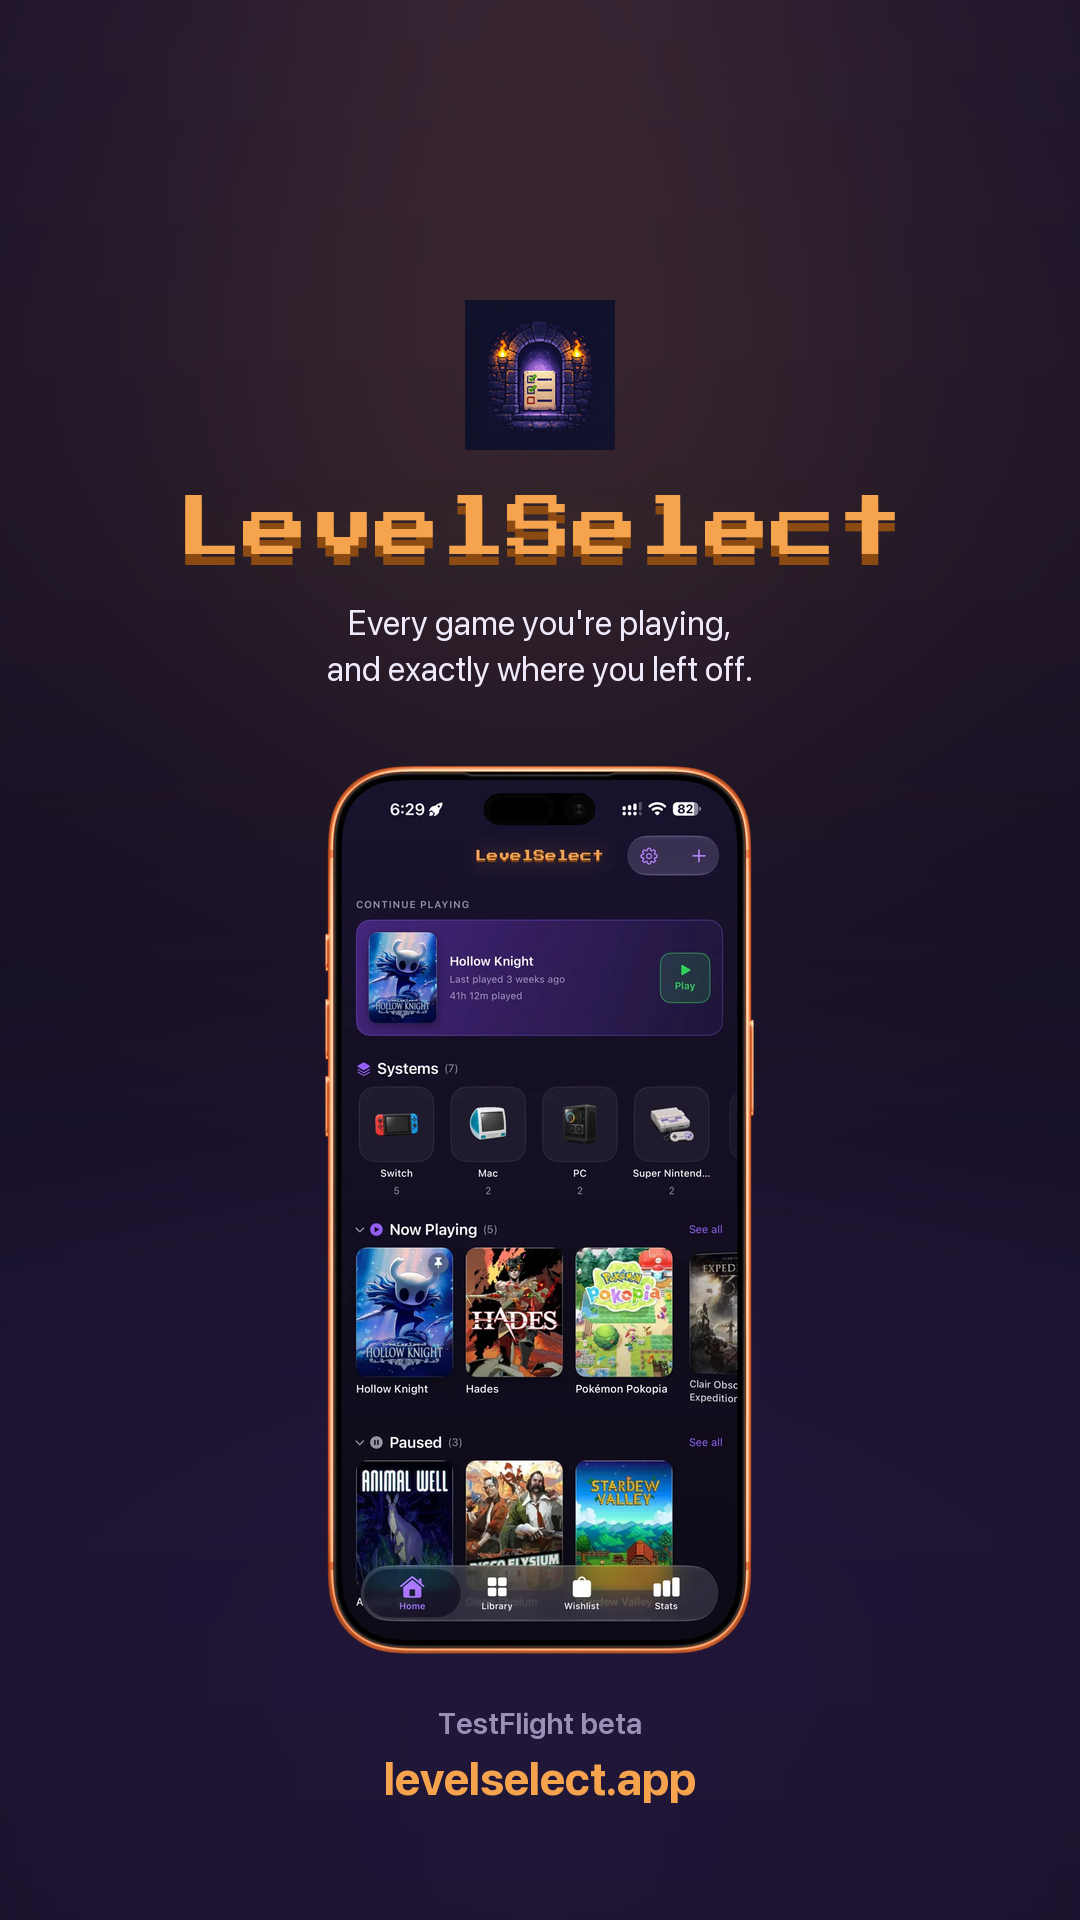
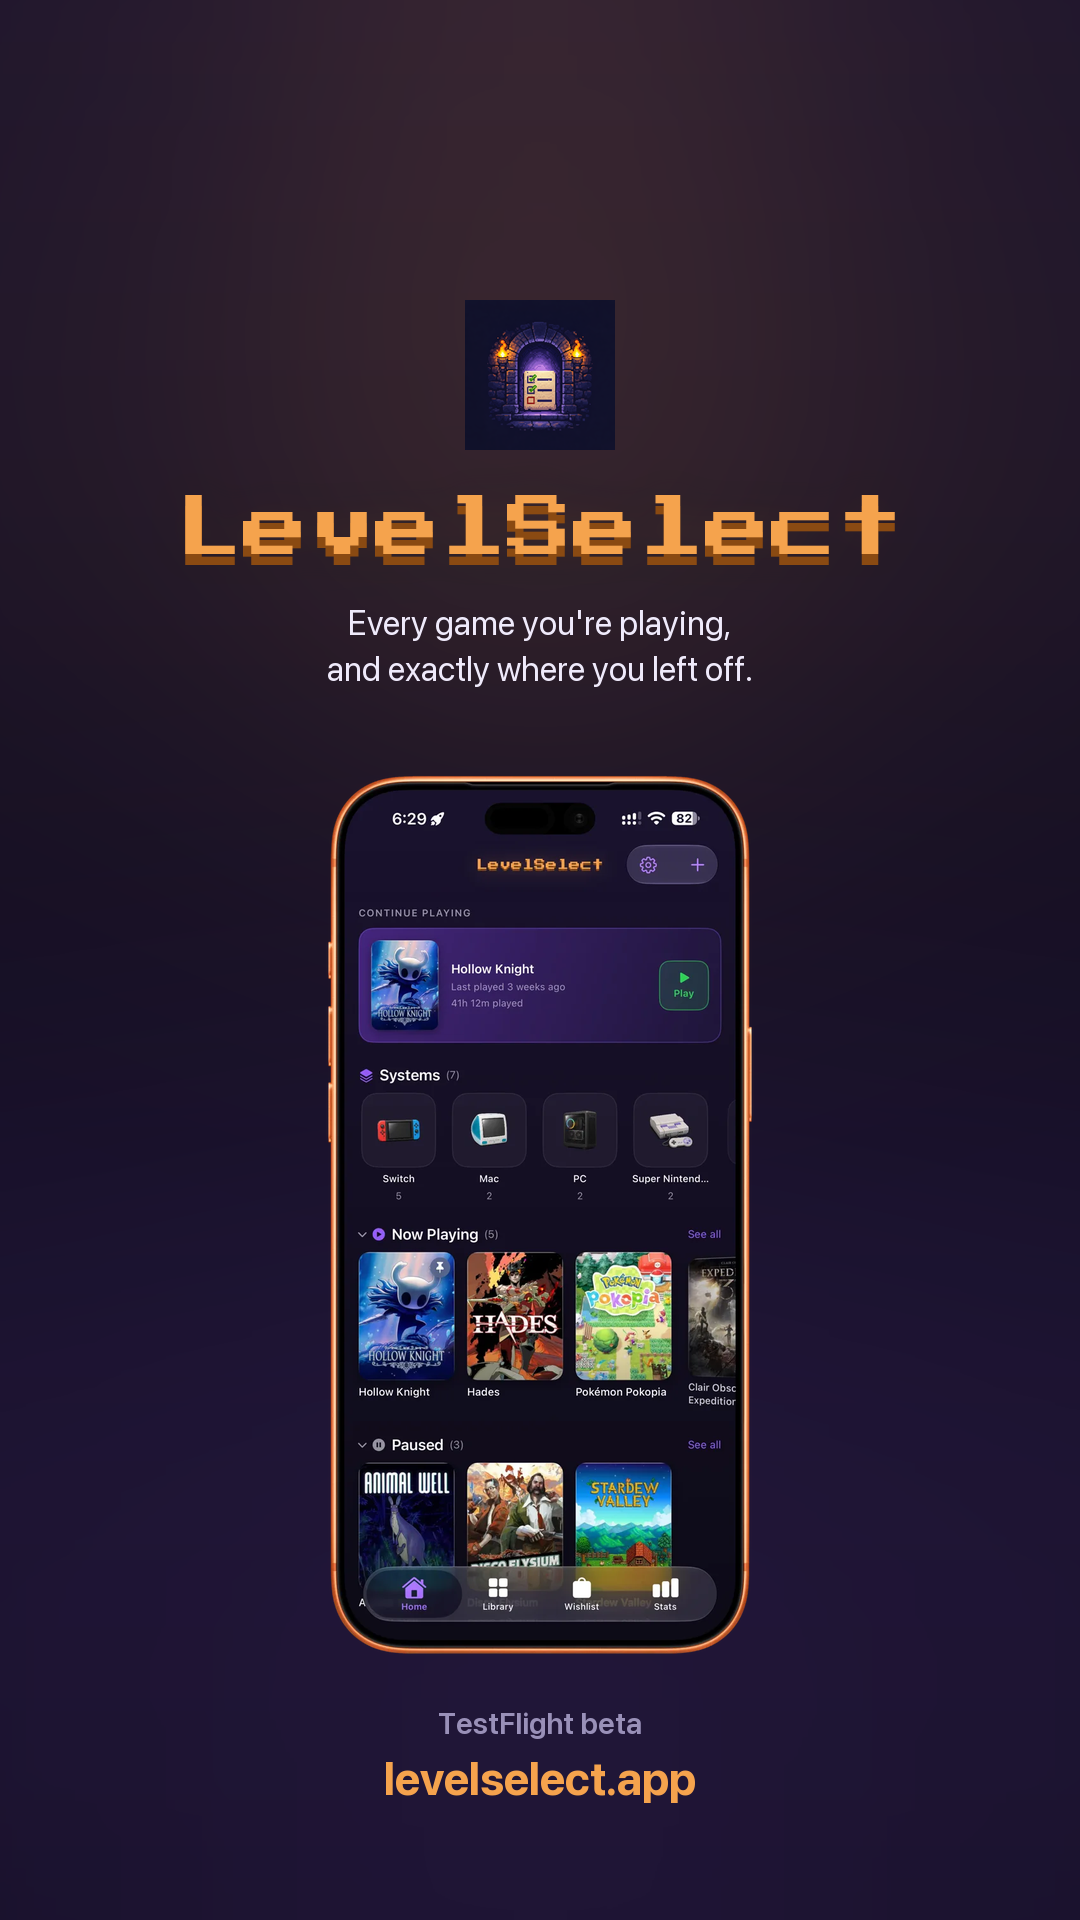
Two heroes, and nothing sitting on the phone
The square had the domain printed across the phone screen — the art was
a fixed height that ran past where the text was drawn, so they simply
overlapped. Every format now budgets its art to the space actually left
between the tagline and the footer, so text and devices can't collide
whatever the shot's proportions.

Each format also comes in one-up and two-up: the phone alone, or the
phone in front of the iPad the way the homepage hero pairs them, which
is the version that shows the tracker beside a game. The link preview
points at the two-up; both are built, so switching is one line.

Changed region(s): [[0.275, 0.375, 0.7028, 0.875]]

diff --git a/site/scripts/make-social-images.py b/site/scripts/make-social-images.py
@@ -60,6 +60,28 @@ def shot(name, height):
     return im.resize((w, height), Image.LANCZOS)
 
 
+def devices(pair, height):
+    """The hero art: one phone, or the site's phone-in-front-of-iPad pairing.
+
+    `height` is the tallest device, so callers can budget vertical space and
+    keep text clear of the art — the square's URL used to land on top of the
+    phone because nothing was measuring this.
+    """
+    phone = shot("iphone-01-home-shelf.webp", height)
+    if not pair:
+        return phone
+
+    pad = shot("ipad-01-split-tracker.webp", round(height * 0.74))
+    phone = shot("iphone-01-home-shelf.webp", height)
+    overlap = round(phone.width * 0.46)
+    canvas = Image.new("RGBA", (phone.width + pad.width - overlap, height), (0, 0, 0, 0))
+    # iPad behind and slightly high, phone in front-left — the arrangement the
+    # homepage hero uses, so the two read as one product on several screens.
+    canvas.alpha_composite(pad, (phone.width - overlap, round(height * 0.10)))
+    canvas.alpha_composite(phone, (0, 0))
+    return canvas
+
+
 def wordmark(img, xy, size, anchor="lt"):
     """The site's wordmark, both shadows included.
 
@@ -101,12 +123,11 @@ def sans(size, weight=400):
 
 
 # ─────────────────────────── 1200x630 — link previews ───────────────────────
-def open_graph():
+def open_graph(pair):
     W, H = 1200, 630
     img = gradient((W, H))
     img = glow(img, (250, 250), 340, TORCH, 0.20)
     img = glow(img, (980, 430), 380, ACCENT, 0.16)
-    d = ImageDraw.Draw(img)
 
     icon = Image.open(PUB / "assets" / "icon.png").convert("RGBA").resize((128, 128), Image.LANCZOS)
     img.paste(icon, (74, 92), icon)
@@ -120,19 +141,21 @@ def open_graph():
     d.text((74, 508), "iPhone · iPad · Mac · Watch", font=sans(22, 400), fill=MUTED)
     d.text((74, 560), "levelselect.app", font=sans(28, 600), fill=TORCH)
 
-    # One device, bled off the right edge so the crop can't behead it.
-    s = shot("iphone-01-home-shelf.webp", 700)
-    img.alpha_composite(s, (835, 92))
-    return img, "og.png"
+    # Bled off the right edge so a crop can't behead it. The pair starts
+    # further right and stands shorter: the wordmark runs to ~x756 at 62px
+    # (Press Start 2P is one em per character), and the phone was landing on
+    # its final letter.
+    art = devices(pair, 700 if not pair else 470)
+    img.alpha_composite(art, (835, 92) if not pair else (788, 84))
+    return img, f"og{'-2up' if pair else ''}.png"
 
 
 # ─────────────────────────── 1080x1920 — Instagram story ────────────────────
-def story():
+def story(pair):
     W, H = 1080, 1920
     img = gradient((W, H))
     img = glow(img, (540, 430), 520, TORCH, 0.20)
     img = glow(img, (540, 1500), 620, ACCENT, 0.16)
-    d = ImageDraw.Draw(img)
 
     icon = Image.open(PUB / "assets" / "icon.png").convert("RGBA").resize((150, 150), Image.LANCZOS)
     img.paste(icon, (465, 300), icon)
@@ -142,37 +165,45 @@ def story():
     d.text((540, 610), "Every game you're playing,", font=sans(34, 400), fill=INK, anchor="mt")
     d.text((540, 656), "and exactly where you left off.", font=sans(34, 400), fill=INK, anchor="mt")
 
-    s = shot("iphone-01-home-shelf.webp", 900)
-    img.alpha_composite(s, ((W - s.width) // 2, 760))
+    # Art sits between the tagline and the footer, scaled to whatever room is
+    # left rather than a fixed height that could collide with either.
+    top, footer_top = 770, 1700
+    art = devices(pair, min(900, footer_top - top - 40))
+    if art.width > W - 80:
+        art = art.resize((W - 80, round(art.height * (W - 80) / art.width)), Image.LANCZOS)
+    img.alpha_composite(art, ((W - art.width) // 2, top))
 
-    d.text((540, 1712), "TestFlight beta", font=sans(30, 600), fill=MUTED, anchor="mt")
-    d.text((540, 1762), "levelselect.app", font=sans(46, 700), fill=TORCH, anchor="mt")
-    return img, "instagram-story.png"
+    d.text((540, footer_top + 12), "TestFlight beta", font=sans(30, 600), fill=MUTED, anchor="mt")
+    d.text((540, footer_top + 62), "levelselect.app", font=sans(46, 700), fill=TORCH, anchor="mt")
+    return img, f"instagram-story{'-2up' if pair else ''}.png"
 
 
 # ─────────────────────────── 1080x1080 — feed square ────────────────────────
-def square():
+def square(pair):
     W = H = 1080
     img = gradient((W, H))
     img = glow(img, (540, 300), 420, TORCH, 0.20)
-    d = ImageDraw.Draw(img)
 
     icon = Image.open(PUB / "assets" / "icon.png").convert("RGBA").resize((120, 120), Image.LANCZOS)
-    img.paste(icon, (480, 118), icon)
+    img.paste(icon, (480, 104), icon)
 
-    img = wordmark(img, (540, 282), 54, anchor="mt")
+    img = wordmark(img, (540, 268), 54, anchor="mt")
     d = ImageDraw.Draw(img)
-    d.text((540, 378), "Every game you're playing,", font=sans(29, 400), fill=INK, anchor="mt")
-    d.text((540, 418), "and exactly where you left off.", font=sans(29, 400), fill=INK, anchor="mt")
+    d.text((540, 366), "Every game you're playing,", font=sans(29, 400), fill=INK, anchor="mt")
+    d.text((540, 406), "and exactly where you left off.", font=sans(29, 400), fill=INK, anchor="mt")
 
-    s = shot("iphone-01-home-shelf.webp", 560)
-    img.alpha_composite(s, ((W - s.width) // 2, 500))
+    top, footer_top = 486, 990
+    art = devices(pair, footer_top - top - 36)
+    if art.width > W - 80:
+        art = art.resize((W - 80, round(art.height * (W - 80) / art.width)), Image.LANCZOS)
+    img.alpha_composite(art, ((W - art.width) // 2, top))
 
-    d.text((540, 1000), "levelselect.app", font=sans(34, 700), fill=TORCH, anchor="mt")
-    return img, "instagram-square.png"
+    d.text((540, footer_top + 6), "levelselect.app", font=sans(34, 700), fill=TORCH, anchor="mt")
+    return img, f"instagram-square{'-2up' if pair else ''}.png"
 
 
 for build in (open_graph, story, square):
-    img, name = build()
-    img.convert("RGB").save(OUT / name, quality=94)
-    print(f"{name}  {img.size[0]}x{img.size[1]}")
+    for pair in (False, True):
+        img, name = build(pair)
+        img.convert("RGB").save(OUT / name, quality=94)
+        print(f"{name}  {img.size[0]}x{img.size[1]}")
